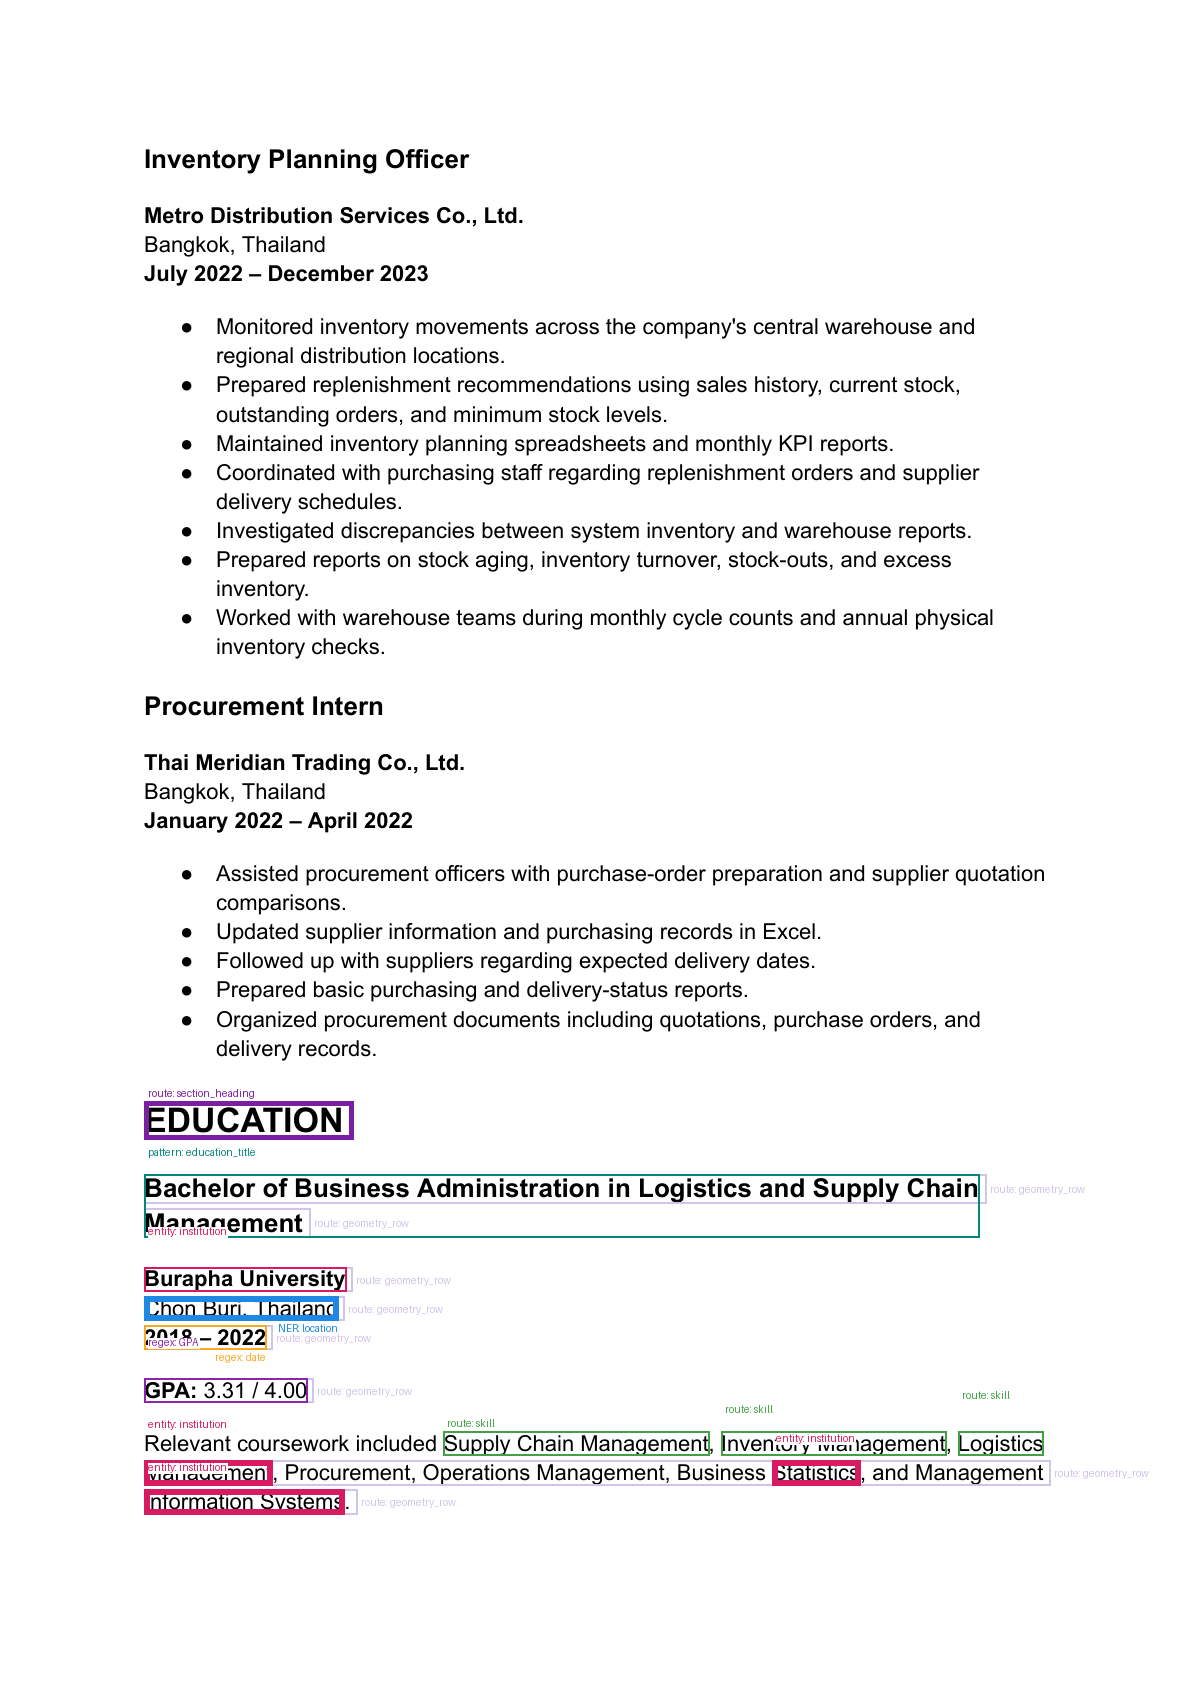
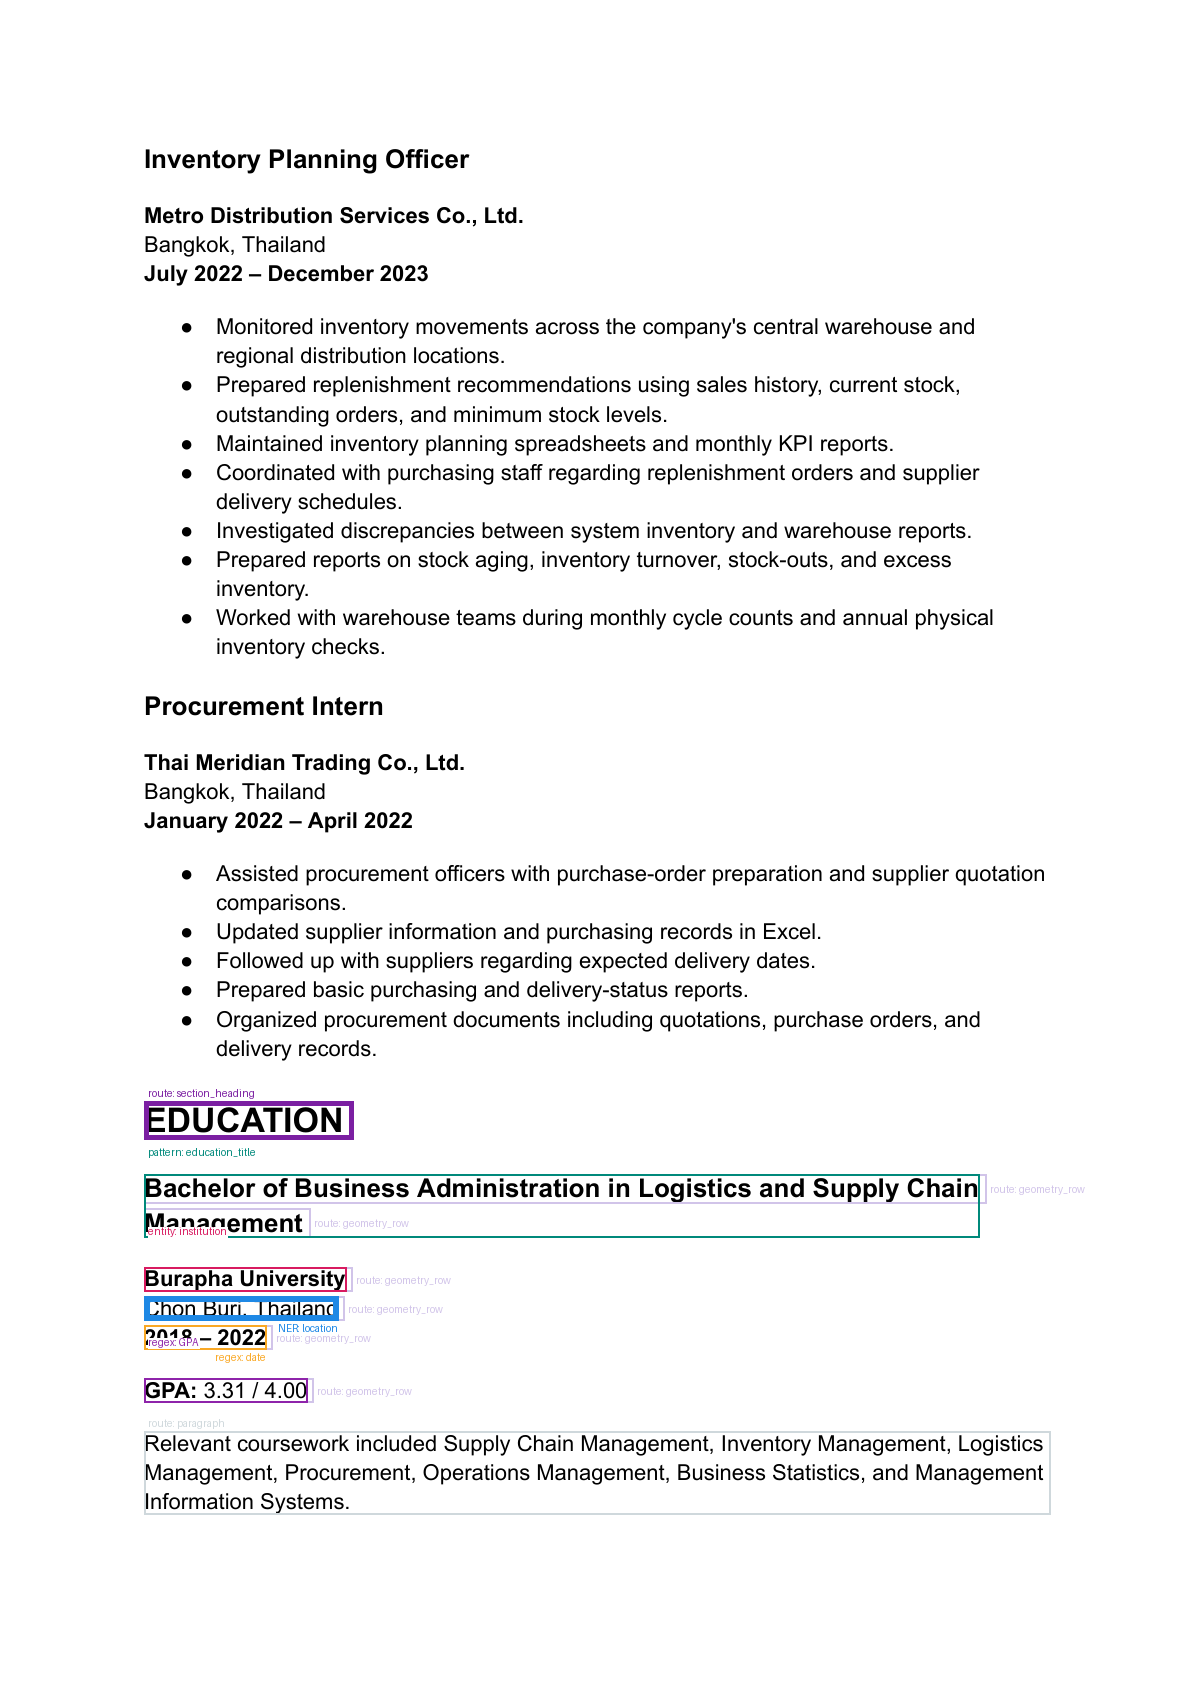
minor-update: Education paragraphs bypass NER and skill extraction

diff --git a/src/extractor_v1/routing.py b/src/extractor_v1/routing.py
@@ -57,9 +57,8 @@ _GPA_RE = re.compile(
     r"(?:\s*(?:/|out\s+of)\s*(?P<scale>\d+(?:\.\d+)?))?\b",
     re.IGNORECASE,
 )
-_EDUCATION_SKILLS_RE = re.compile(
-    r"^\s*(?:relevant\s+)?(?:coursework|courses?|subjects?|modules?|skills?|"
-    r"technologies|tools)\s*(?::|-|included\b)?\s*(?P<items>.+)$",
+_EDUCATION_PARAGRAPH_RE = re.compile(
+    r"^\s*(?:relevant\s+)?(?:coursework|courses?|subjects?|modules?)\b",
     re.IGNORECASE,
 )
 _PAGE_FOOTER_RE = re.compile(r"\bpage\s+\d+\s*$", re.IGNORECASE)
@@ -607,53 +606,6 @@ def _row_value(row: list[tuple[int, ExtractedLine]]) -> dict[str, Any]:
     }
 
 
-def _education_skills(
-    document: pymupdf.Document,
-    line: ExtractedLine,
-) -> list[dict[str, Any]]:
-    match = _EDUCATION_SKILLS_RE.match(line.text)
-    if match is None:
-        return []
-    raw_items = match.group("items").strip()
-    if "," not in raw_items and ";" not in raw_items:
-        return []
-    return _education_skill_items(
-        document,
-        line,
-        raw_items,
-        match.start("items"),
-    )
-
-
-def _education_skill_items(
-    document: pymupdf.Document,
-    line: ExtractedLine,
-    raw_items: str,
-    source_start: int = 0,
-) -> list[dict[str, Any]]:
-    pieces = re.split(r"\s*[,;]\s*", raw_items)
-    if pieces and re.search(r"\s+and\s+", pieces[-1], re.IGNORECASE):
-        pieces[-1:] = re.split(r"\s+and\s+", pieces[-1], maxsplit=1, flags=re.IGNORECASE)
-    skills: list[dict[str, Any]] = []
-    search_from = source_start
-    for piece in pieces:
-        text = piece.strip(" .")
-        if not text:
-            continue
-        start = line.text.casefold().find(text.casefold(), search_from)
-        if start < 0:
-            start = search_from
-        end = start + len(text)
-        search_from = end
-        skills.append({
-            "text": text,
-            "page": line.page,
-            "bbox": _span_bbox(document, line, text, start, end),
-            "detectionMethod": "labeled_comma_list",
-        })
-    return skills
-
-
 def _education_row_entities(
     document: pymupdf.Document,
     row: list[tuple[int, ExtractedLine]],
@@ -690,12 +642,6 @@ def _education_row_entities(
             })
         if gpa_matches:
             result["handledLineIndexes"].add(line_index)
-
-        skills = _education_skills(document, line)
-        if skills:
-            result["skills"].extend(skills)
-            result["handledLineIndexes"].add(line_index)
-            continue
 
         candidates = _metadata_candidates(
             line.text,
@@ -825,9 +771,48 @@ def build_education_debug(
             for _, line in row
         ):
             continue
-        entities = _education_row_entities(document, row, ner_model, url_entities_by_line)
+        explicit_metadata = any(
+            _DATE_RANGE_RE.search(line.text)
+            or _GPA_RE.search(line.text)
+            or _EDUCATION_TITLE_RE.search(line.text)
+            or _EDUCATION_INSTITUTION_RE.search(line.text)
+            for _, line in row
+        )
+        metadata_shape = explicit_metadata and any(
+            line.bold
+            or _EDUCATION_SEPARATOR_RE.search(line.text)
+            or len(line.text.split()) <= SETTINGS.section_router.maximum_subheading_words
+            for _, line in row
+        )
+        prose_row = any(
+            _EDUCATION_PARAGRAPH_RE.search(line.text)
+            or (
+                not metadata_shape
+                and (
+                    len(line.text.split()) > SETTINGS.section_router.maximum_subheading_words
+                    or line.text.rstrip().endswith((".", ";", ":"))
+                )
+            )
+            for _, line in row
+        )
+        continuing_body = bool(
+            current is not None
+            and current["_bodyStarted"]
+            and not explicit_metadata
+        )
+        if prose_row or continuing_body:
+            entities: dict[str, Any] = {
+                "titles": [], "institutions": [], "dates": [], "locations": [],
+                "gpa": [], "skills": [], "urls": [], "handledLineIndexes": set(),
+            }
+        else:
+            entities = _education_row_entities(
+                document,
+                row,
+                ner_model,
+                url_entities_by_line,
+            )
         primary = bool(entities["titles"] or entities["institutions"] or entities["dates"])
-        structured_body = bool(entities["skills"])
         metadata = primary or bool(entities["locations"] or entities["gpa"])
 
         if metadata:
@@ -848,15 +833,6 @@ def build_education_debug(
             current["metadataRows"].append(_row_value(row))
             for key in ("titles", "institutions", "dates", "locations", "gpa", "urls"):
                 current[key].extend(entities[key])
-            continue
-
-        if structured_body:
-            current = current or new_entry()
-            current["_bodyStarted"] = True
-            current["skills"].extend(entities["skills"])
-            current["urls"].extend(entities["urls"])
-            current["_lastBodyType"] = "skill"
-            current["_lastLineBbox"] = [round(value, 2) for value in row[-1][1].bbox]
             continue
 
         if (
@@ -886,18 +862,6 @@ def build_education_debug(
             bullet = _BULLET_RE.match(line.text)
             line_box = pymupdf.Rect(line.bbox)
             rounded_bbox = [round(value, 2) for value in line.bbox]
-            if current["_lastBodyType"] == "skill" and current["_lastLineBbox"] is not None:
-                previous_box = pymupdf.Rect(current["_lastLineBbox"])
-                gap = line_box.y0 - previous_box.y1
-                if (
-                    -2.0 <= gap <= max(previous_box.height, line_box.height) * SETTINGS.section_router.paragraph_gap_multiplier
-                    and not bullet
-                ):
-                    current["skills"].extend(
-                        _education_skill_items(document, line, line.text)
-                    )
-                    current["_lastLineBbox"] = rounded_bbox
-                    continue
             if bullet:
                 current["bullets"].append({
                     "text": line.text[bullet.end():].strip(),
